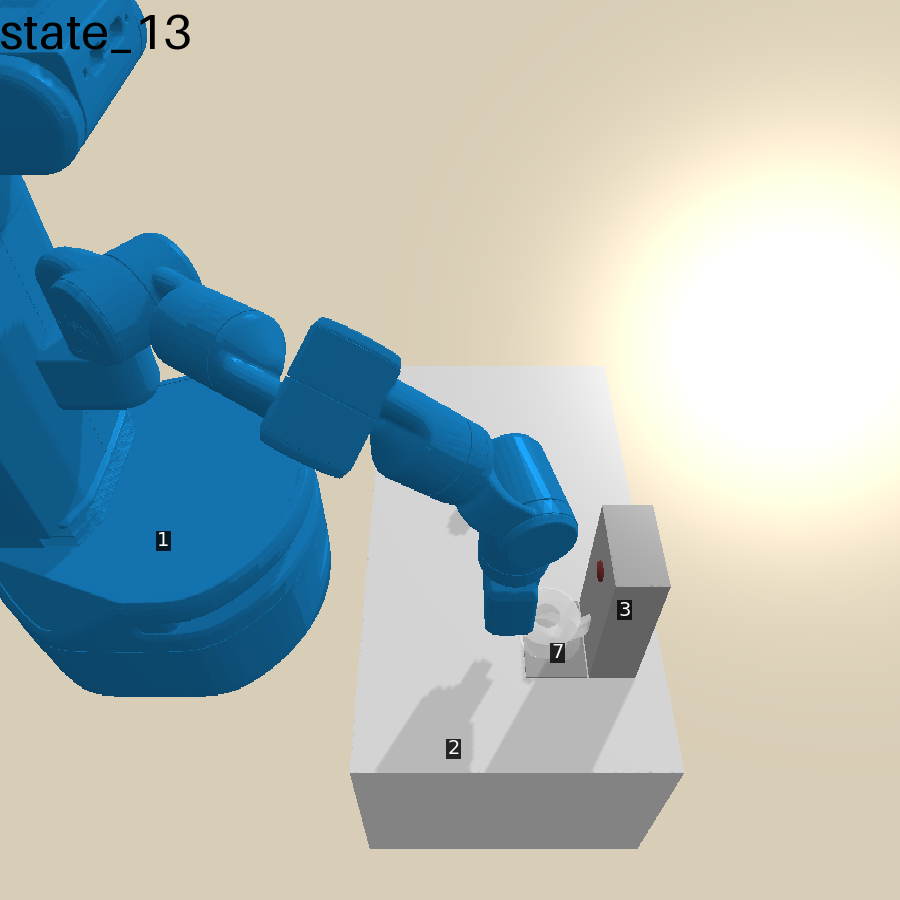
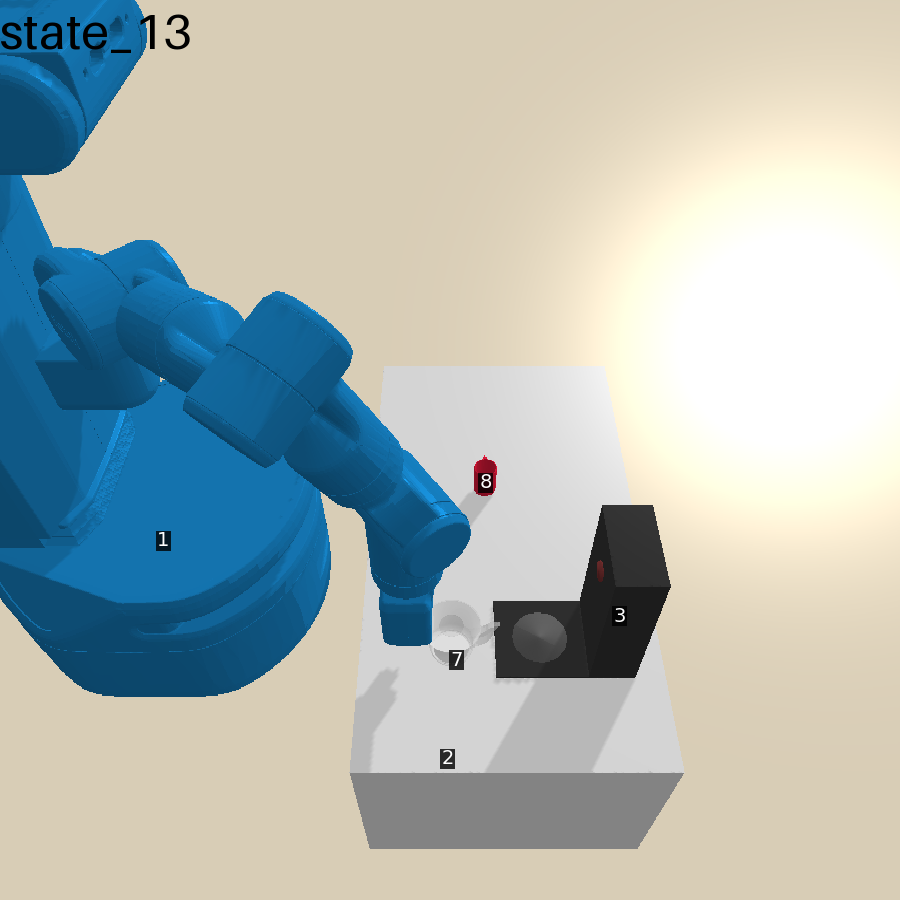
remove the alpha channel for the jug and change the machine's color

Changed region(s): [[0.0311, 0.2489, 0.7467, 0.8711]]

diff --git a/predicators/envs/pybullet_coffee.py b/predicators/envs/pybullet_coffee.py
@@ -391,7 +391,7 @@ class PyBulletCoffeeEnv(PyBulletEnv, CoffeeEnv):
         # Create the visual_shape.
         visual_id = p.createVisualShape(p.GEOM_BOX,
                                         halfExtents=half_extents,
-                                        rgbaColor=(0.7, 0.7, 0.7, 1.0),
+                                        rgbaColor=(0.2, 0.2, 0.2, 1.0),
                                         physicsClientId=physics_client_id)
 
         # Create the body.
@@ -417,7 +417,7 @@ class PyBulletCoffeeEnv(PyBulletEnv, CoffeeEnv):
                 cls.z_lb + dispense_height)
         orientation = cls._default_orn
         half_extents = (cls.machine_x_len / 2, 
-                        1.1 * dispense_radius + cls.jug_radius + 0.001,
+                        1.1 * dispense_radius + cls.jug_radius + 0.003,
         # half_extents = (1.1 * dispense_radius, 1.1 * dispense_radius,
                         dispense_height)
 
@@ -430,7 +430,7 @@ class PyBulletCoffeeEnv(PyBulletEnv, CoffeeEnv):
         # Create the visual_shape.
         visual_id = p.createVisualShape(p.GEOM_BOX,
                                         halfExtents=half_extents,
-                                        rgbaColor=(0.7, 0.7, 0.7, 1.0),
+                                        rgbaColor=(0.2, 0.2, 0.2, 1.0),
                                         physicsClientId=physics_client_id)
 
         # Create the body.
@@ -452,7 +452,7 @@ class PyBulletCoffeeEnv(PyBulletEnv, CoffeeEnv):
         visual_id = p.createVisualShape(p.GEOM_CYLINDER,
                                         radius=dispense_radius,
                                         length=dispense_height,
-                                        rgbaColor=(0.7, 0.7, 0.7, 0.8),
+                                        rgbaColor=(0.9, 0.9, 0.9, 1),
                                         physicsClientId=physics_client_id)
 
         # Create the body.
@@ -538,7 +538,7 @@ class PyBulletCoffeeEnv(PyBulletEnv, CoffeeEnv):
         #                         rgbaColor=[0.3, 0.3, 0.3, 1], 
         #                         physicsClientId=physics_client_id)
         # Make the jug transparent
-        p.changeVisualShape(jug_id, 0, rgbaColor=[1,1,1,0.4], 
+        p.changeVisualShape(jug_id, 0, rgbaColor=[1,1,1,0.9], 
                                     physicsClientId=physics_client_id)
         # remove the lid
         p.changeVisualShape(jug_id, 1, rgbaColor=[1,1,1,0], 

diff --git a/predicators/approaches/vlm_online_invention_approach.py b/predicators/approaches/vlm_online_invention_approach.py
@@ -215,8 +215,8 @@ class VlmInventionApproach(NSRTLearningApproach):
     def learn_from_tasks(self, env: BaseEnv, tasks: List[Task]) -> None:
         """Learn from interacting with the offline dataset."""
         for i, task in enumerate(tasks):
-            tasks[i].init.state_image.save(f"images/init_state{i}.png")
-            tasks[i].init.labeled_image.save(f"images/init_label{i}.png")
+            task.init.state_image.save(f"images/init_state{i}.png")
+            task.init.labeled_image.save(f"images/init_label{i}.png")
         breakpoint()
         self.env_name = env.get_name()
         num_tasks = len(tasks)

diff --git a/predicators/utils.py b/predicators/utils.py
@@ -407,7 +407,9 @@ def summarize_results_in_str(
             uniq_n_tp, uniq_n_fn = len(tp_states), len(fn_states)
             uniq_n_tn, uniq_n_fp = len(tn_states), len(fp_states)
 
-            if n_succ_states:
+            # if n_succ_states and n_fail_states:
+            if n_tp and "tp" in categories_to_show and n_fp and\
+                "fp" in categories_to_show:
                 # [Simplified]
                 result_str.append(
                     f"Option {g_optn} *successfully* executed on the following "

diff --git a/predicators/envs/pybullet_env.py b/predicators/envs/pybullet_env.py
@@ -300,7 +300,8 @@ class PyBulletEnv(BaseEnv):
         # imageio.imsave(f'./prompts/og_image.png', original_image)
         # imageio.imsave(f'./prompts/seg_image.png', seg_image)
 
-        state_img = Image.fromarray(original_image)
+        state_img = Image.fromarray(original_image[:, :, :3])
+        # state_img = Image.fromarray(original_image)
         # img_dict['scene'] = ImageWithBox(
         #     Image.fromarray(original_image), 0, height-1, 0, width-1)
 
